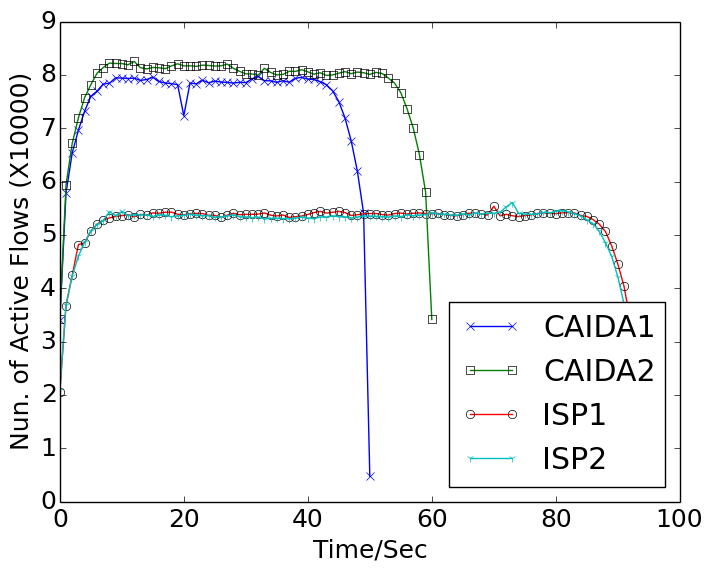
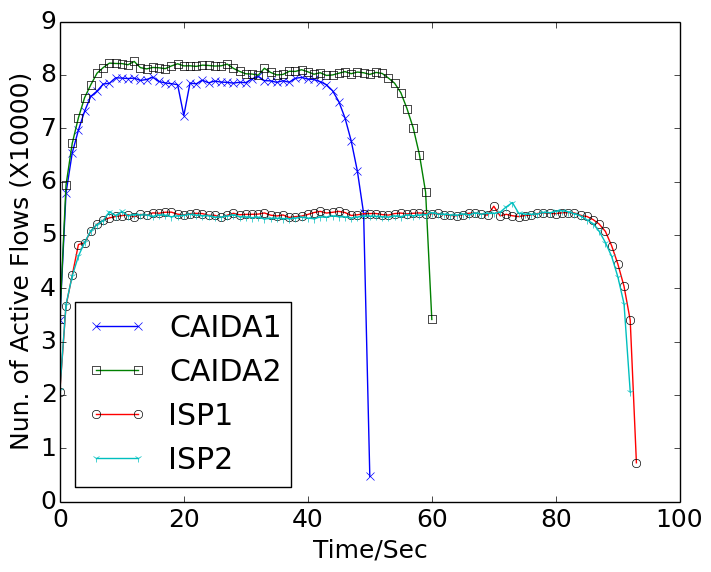
Automatic uploading. No comments!

diff --git a/figures/exp84508/plot.py b/figures/exp84508/plot.py
@@ -42,7 +42,7 @@ if __name__ == "__main__":
 	plt.plot(nflows4, label = "ISP2", marker = "1", mfc="none")
 #	plt.plot(range(5), are_hw, label = "Hardware", marker = "o")
 #	plt.legend(bbox_to_anchor=(0.0, 1.02, 1.0, 0.102), loc = 3, ncol = 2, mode = "expand", borderaxespad = 0.0)
-	plt.legend(loc = 4)
+	plt.legend(loc = 3)
 	plt.ylabel("Nun. of Active Flows (X10000)")
 	plt.xlabel("Time/Sec")
 	plt.savefig("nflows.pdf", bbox_inches = "tight")
